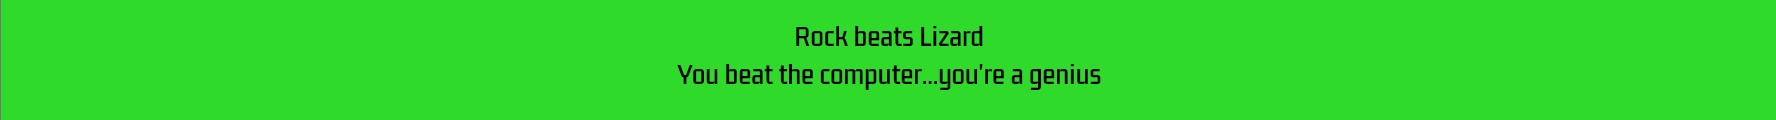
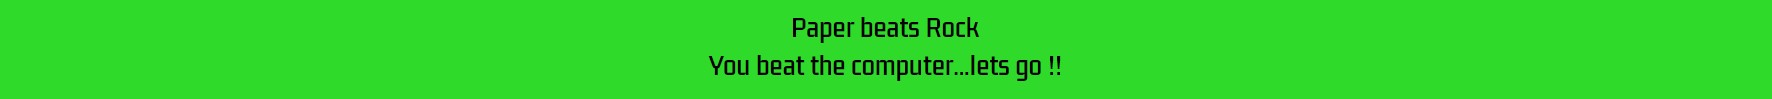
Add features content to README.md and fix some images

Changed region(s): [[0.3725, 0.5455, 0.6208, 0.8182], [0.4345, 0.1818, 0.5587, 0.3939]]

diff --git a/README.md b/README.md
@@ -18,13 +18,45 @@ Rock Paper Scissors Lizard Spock is a a twist on the classic game of Rock Paper 
 *   The title stays prominant and clear on all screen sizes.
 ![Title](assets/images/title.jpg)
 ### Taglines and Rules Button
-* When the player opens homepage, they are met with the tagline "Think you can beat the computer?" and "Make you decision carfully" underneath the title
-* This intrigues the user, but also lets them know that the gameplay is based on choices
+* When the player opens homepage, they are met with the tagline "Think you can beat the computer?" and "Make you decision...carefully" underneath the title.
+* This intrigues the user, but also lets them know that the gameplay is based on choices.
+* In this section it also lets the user know how many points (rounds) it takes to win the game.
+* The rules modal box pops up whenever the user clicks the rules button.
+* The rules button has yellow shadowing behind to add to the effect that it is a button.
 ![Taglines](assets/images/taglines.jpg)
+### Rules Modal
+* The rules modal displays all the possible ways of winning a round of the game. 
+* The X in the top right corner of the modal when clicked will close the modal and return you to the game screen.
+![Rules modal](assets/images/rules-content.jpg)
+### User Options (Rock, Paper, Scissors, Lizard, Spock)
+* This section has all possible selections the user can make.
+* The buttons when hovered over gradually change to the color pink to indicate to the user that this is the selection they are about to make.
+* Each button icon matches the icons in the rules modal so the user knows which icon is which.
+![User Options](assets/images/user-options.jpg)
+### User and Computer Selections 
+* This section displays what option the user has selected and also the random selection of the computer.
+![User and computer selections](assets/images/user%26comp-selection.jpg)
+### Round Feedback
+* The round feedback section displays which selection has won out of the user selection and computer selection.
+* It also displays a tagline to clarify whether the user or computer has won the round.
+![Round feedback](assets/images/round-feedback.jpg)
+### Score Board
+* Displays the number of rounds won by the user and computer so user can see how close they are to a victory or a loss.
+* Once the user or computer reach the max score of 10 an end of game modal will pop up.
+![Score board](assets/images/score-board.jpg)
+### End Game Modal
+* The end game modal pops up when either the user or computer has reached a score of 10.
+* The modal announces who has won the game.
+* The modal includes a 'Play Again' button which when clicked will reset the game and you can start the game again. 
+![End game modal](assets/images/end-game-modal.jpg)
+### Future Features
+* I'd like to implement a username input to make the game more personilsed.
+* Also to add a leaderboard that would tally up all the games you won and put your username beside your score.
 
 
 ## Solved Bugs
-
+* I came across a problem with the user and computer scores not incrementing after the first round of selections. To fix this I simply changed the javascript code from userPoints++ to ++userPoints and the same switch for the computer points.
+* I had a problem with the rules modal not appearing on top of the rest of the content and to fix this i set the z-index to 1.
 ## Testing
 
 ## Deployment
